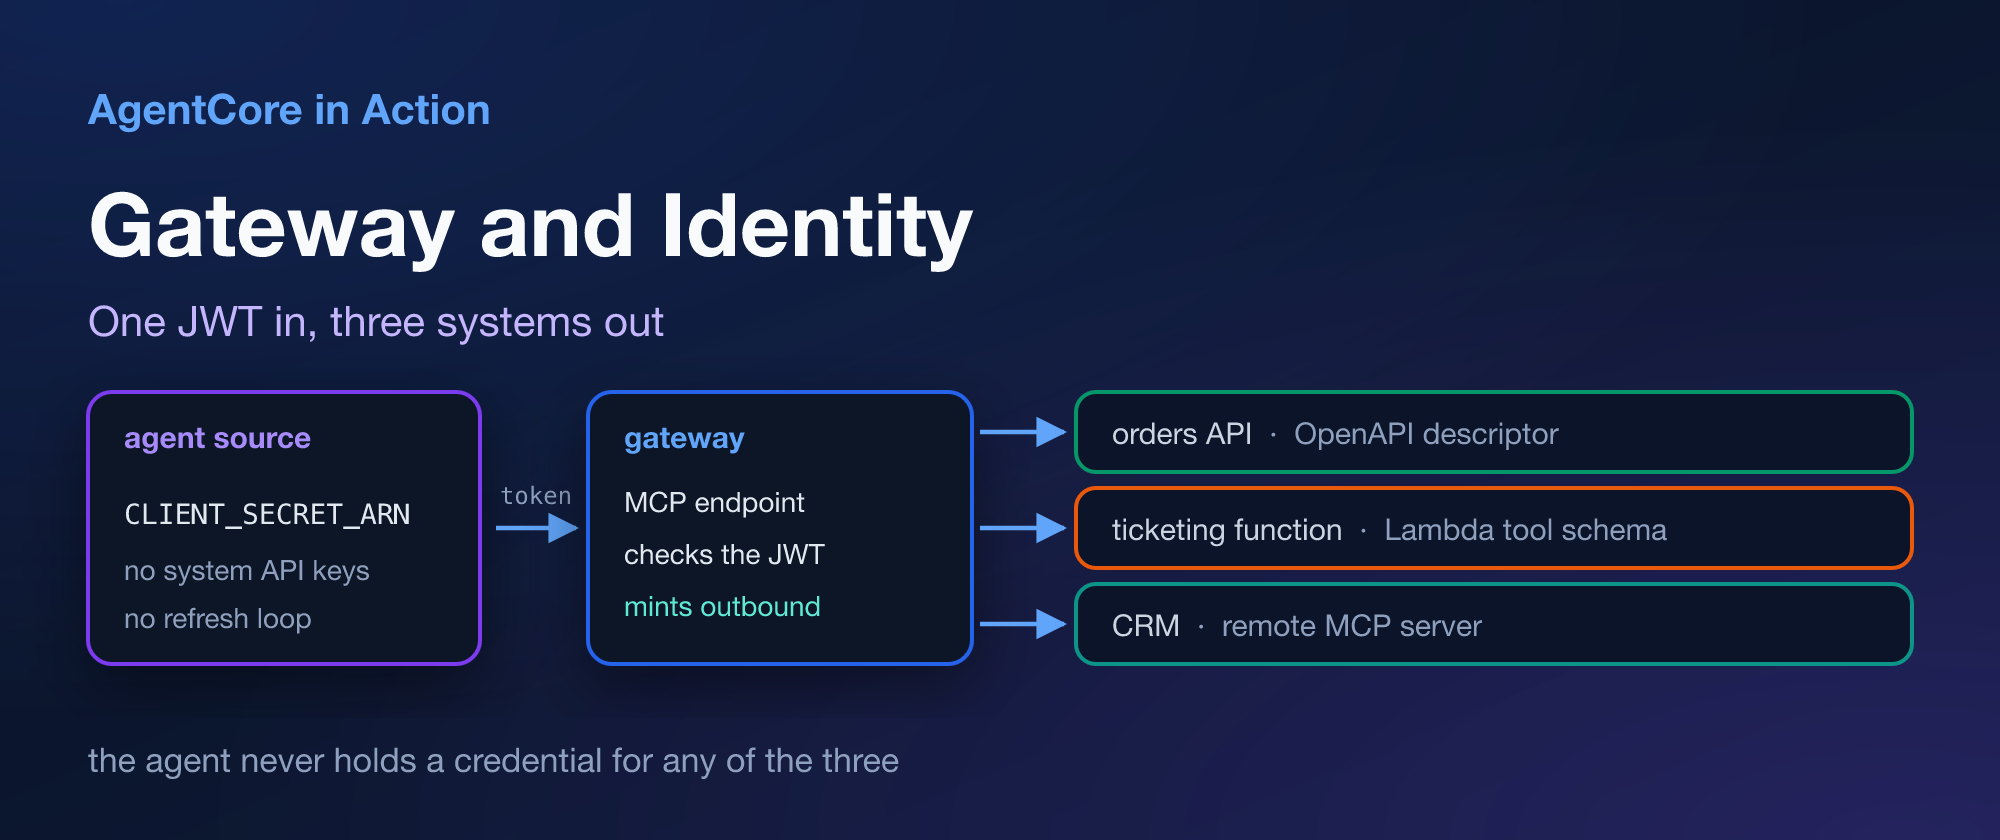
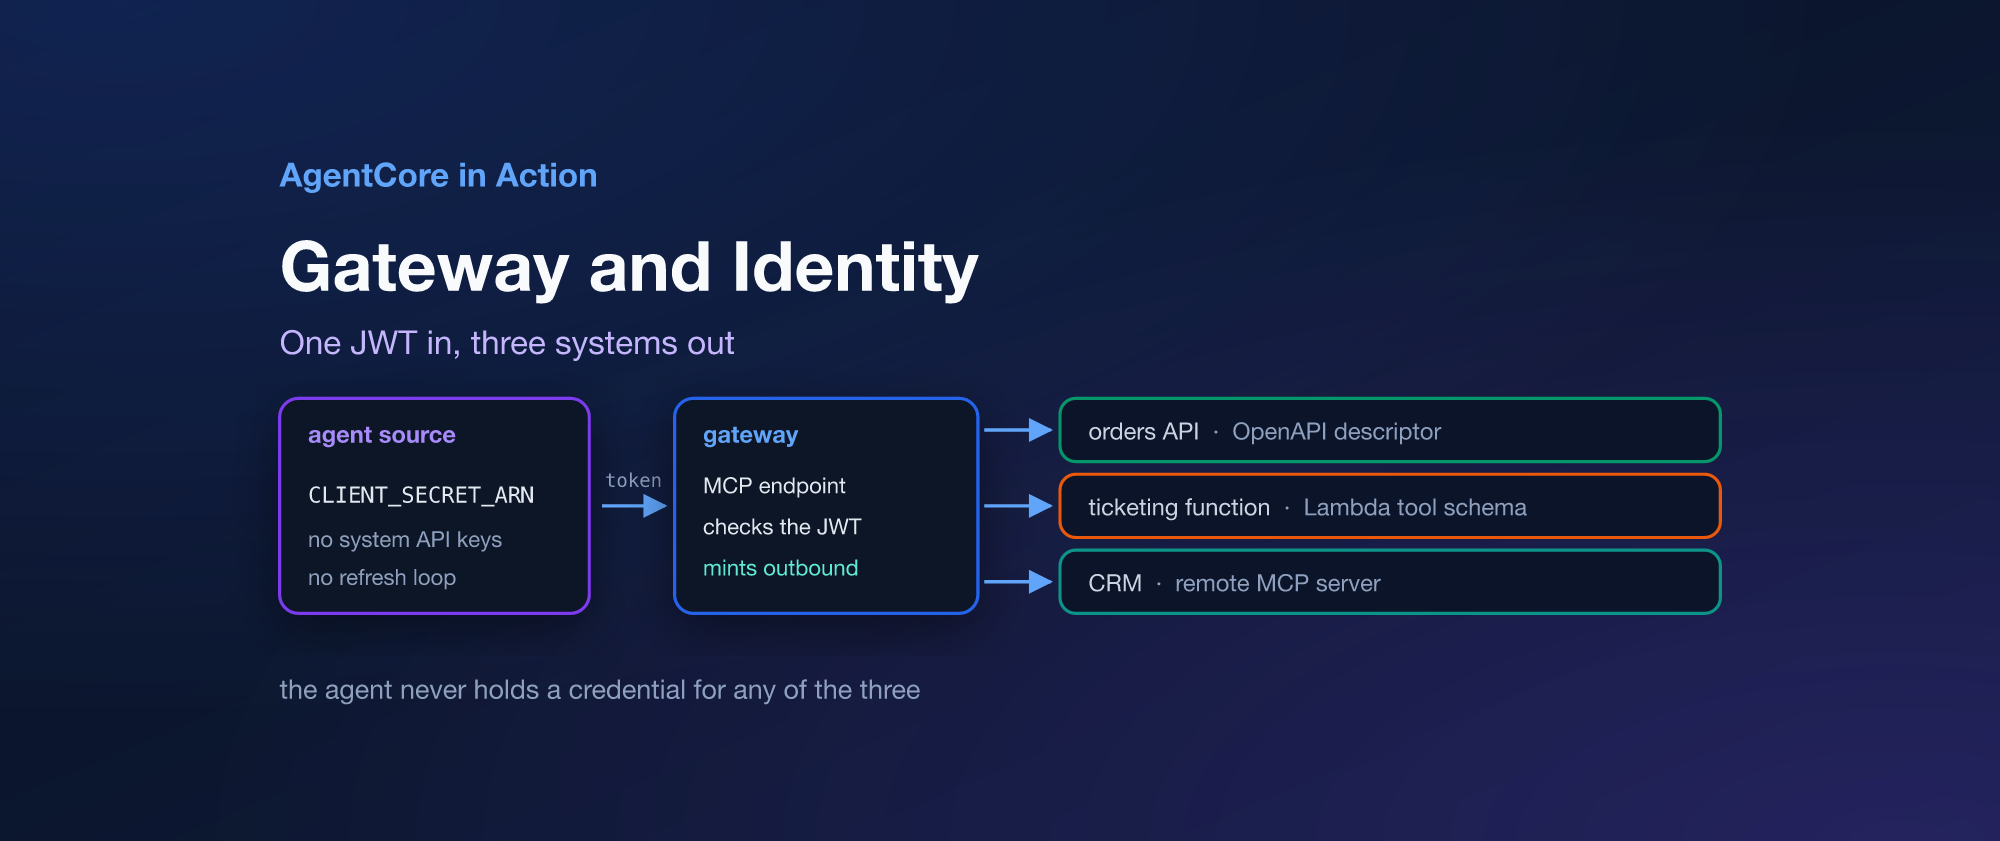
Dev.to covers: keep art inside the 1.91 social crop
Dev.to serves one image to two boxes: a 1000x420 cover and a 1200x627 social
card, which crops 9.8% off each side. UC01-UC03 covers are now laid out on a
wider gradient canvas (content keeps its coordinates, the canvas supplies the
margin), and publish_article.py ships cover-devto.png when it exists instead
of the 16:9 cover that lost its top line in the article header.

diff --git a/articles/images/agentcore-memory-that-remembers/gen_figures.py b/articles/images/agentcore-memory-that-remembers/gen_figures.py
@@ -374,11 +374,23 @@ def figure_two_sessions() -> None:
 # covers                                                                      #
 # --------------------------------------------------------------------------- #
 
-def cover(w: int, h: int, name: str) -> None:
-    """Normalised layout, so the same composition works at 1200x675 and 1000x420."""
+def cover(w: int, h: int, name: str, safe: float = 0.0) -> None:
+    """Normalised layout, so the same composition works at 1200x675 and 1000x420.
+
+    `safe` widens the canvas instead of reflowing the art: the Dev.to cover also
+    serves as the 1200x627 social card, which crops 9.8% off each side, so the
+    artwork keeps its coordinates on a larger gradient field and never reaches
+    that crop line.
+    """
+    if safe:
+        W = round(w / (1 - 2 * safe))
+        H = round(W * h / w)
+        px, py = (W - w) // 2, (H - h) // 2
+    else:
+        W, H, px, py = w, h, 0, 0
     out = [
-        f'<svg xmlns="http://www.w3.org/2000/svg" viewBox="0 0 {w} {h}" width="{w}" '
-        f'height="{h}" role="img">',
+        f'<svg xmlns="http://www.w3.org/2000/svg" viewBox="{-px} {-py} {W} {H}" width="{W}" '
+        f'height="{H}" role="img">',
         "<title>An Agent That Remembers: short-term and long-term memory on AgentCore</title>",
         "<defs>",
         '<linearGradient id="bg" x1="0" y1="0" x2="1" y2="1">'
@@ -392,9 +404,9 @@ def cover(w: int, h: int, name: str) -> None:
         '<marker id="ah" viewBox="0 0 10 10" refX="9" refY="5" markerWidth="7" '
         'markerHeight="7" orient="auto"><path d="M 0 0 L 10 5 L 0 10 z" fill="#60a5fa"/></marker>',
         "</defs>",
-        f'<rect width="{w}" height="{h}" fill="url(#bg)"/>',
-        f'<rect width="{w}" height="{h}" fill="url(#g1)"/>',
-        f'<rect width="{w}" height="{h}" fill="url(#g2)"/>',
+        f'<rect x="{-px}" y="{-py}" width="{W}" height="{H}" fill="url(#bg)"/>',
+        f'<rect x="{-px}" y="{-py}" width="{W}" height="{H}" fill="url(#g1)"/>',
+        f'<rect x="{-px}" y="{-py}" width="{W}" height="{H}" fill="url(#g2)"/>',
     ]
     pad = 0.055 * w
     title = 0.052 * w
@@ -617,7 +629,7 @@ def main() -> None:
     figure_architecture()
     figure_two_sessions()
     cover(1200, 675, "cover")
-    cover(1000, 420, "cover-devto")
+    cover(1000, 420, "cover-devto", safe=0.105)
     cover(1400, 788, "cover-medium")   # Medium feature image, same 16:9 composition
 
 

diff --git a/articles/images/your-first-agent-as-a-service-on-agentcore/gen_figures.py b/articles/images/your-first-agent-as-a-service-on-agentcore/gen_figures.py
@@ -608,9 +608,15 @@ def cover_medium() -> None:
 
 
 def cover_devto() -> None:
+    # the 2.38:1 Dev.to cover is also its 1200x627 social card source, which
+    # crops 9.8% off each side: the art keeps its proportions and sits on a
+    # wider gradient field instead of being reflowed
     w, h = 1000, 420
+    W = round(w / (1 - 2 * 0.105))
+    H = round(W * h / w)
+    px, py = (W - w) // 2, (H - h) // 2
     p = [
-        f'<svg xmlns="http://www.w3.org/2000/svg" viewBox="0 0 {w} {h}" width="{w}" height="{h}" role="img">',
+        f'<svg xmlns="http://www.w3.org/2000/svg" viewBox="{-px} {-py} {W} {H}" width="{W}" height="{H}" role="img">',
         "<title>Cover: your first agent as a service. Deploying a support agent on AgentCore.</title>",
         "<defs>",
         '<linearGradient id="bg" x1="0" y1="0" x2="1" y2="1">'
@@ -622,10 +628,10 @@ def cover_devto() -> None:
         f'<stop offset="0" stop-color="{ORANGE}" stop-opacity="0.22"/>'
         f'<stop offset="1" stop-color="{ORANGE}" stop-opacity="0"/></radialGradient>',
         "</defs>",
-        f'<rect width="{w}" height="{h}" fill="url(#bg)"/>',
-        f'<rect width="{w}" height="{h}" fill="url(#gA)"/>',
-        f'<rect width="{w}" height="{h}" fill="url(#gB)"/>',
-        '<g font-family="ui-sans-serif, -apple-system, \'Helvetica Neue\', Arial, sans-serif">',
+        f'<rect x="{-px}" y="{-py}" width="{W}" height="{H}" fill="url(#bg)"/>',
+        f'<rect x="{-px}" y="{-py}" width="{W}" height="{H}" fill="url(#gA)"/>',
+        f'<rect x="{-px}" y="{-py}" width="{W}" height="{H}" fill="url(#gB)"/>',
+        f'<g font-family="ui-sans-serif, -apple-system, \'Helvetica Neue\', Arial, sans-serif">',
         f'<rect x="56" y="62" width="38" height="5" rx="2.5" fill="{ORANGE}"/>',
         f'<text x="108" y="70" font-size="16" font-weight="700" letter-spacing="2.5" fill="#fb923c">'
         "AGENTCORE IN ACTION · USE CASE 01</text>",

diff --git a/shared/scripts/publish_article.py b/shared/scripts/publish_article.py
@@ -144,6 +144,13 @@ def devto(slug, fm, body, tags, create):
     # resolves to dev.to/images/... and every figure in the article 404s. The
     # Hugo copy keeps the root path; the API copy gets absolute URLs.
     dev_body = re.sub(r"\]\(/images/", "](https://xiongpin.dev/images/", body.lstrip("\n"))
+    # Dev.to renders the cover at 1000x420 (2.38:1) and reuses the same URL for
+    # its 1200x627 social card, so ship the wide variant whenever the article
+    # has one: a 16:9 cover loses its top line in the article header.
+    if (REPO / "articles" / "images" / slug / "cover-devto.png").exists():
+        cover_rel = f"/images/{slug}/cover-devto.png"
+    else:
+        cover_rel = fm_get(fm, "image") or f"/images/{slug}/cover.png"
     payload = {"article": {
         "title": fm_get(fm, "title"),
         "body_markdown": dev_body,
@@ -151,7 +158,7 @@ def devto(slug, fm, body, tags, create):
         "description": desc,
         "tags": tags,
         "canonical_url": f"https://xiongpin.dev/posts/{slug}/",
-        "main_image": "https://xiongpin.dev" + (fm_get(fm, "image") or f"/images/{slug}/cover.png"),
+        "main_image": "https://xiongpin.dev" + cover_rel,
         "organization_id": 2794,  # AWS Community Builders
     }}
 
